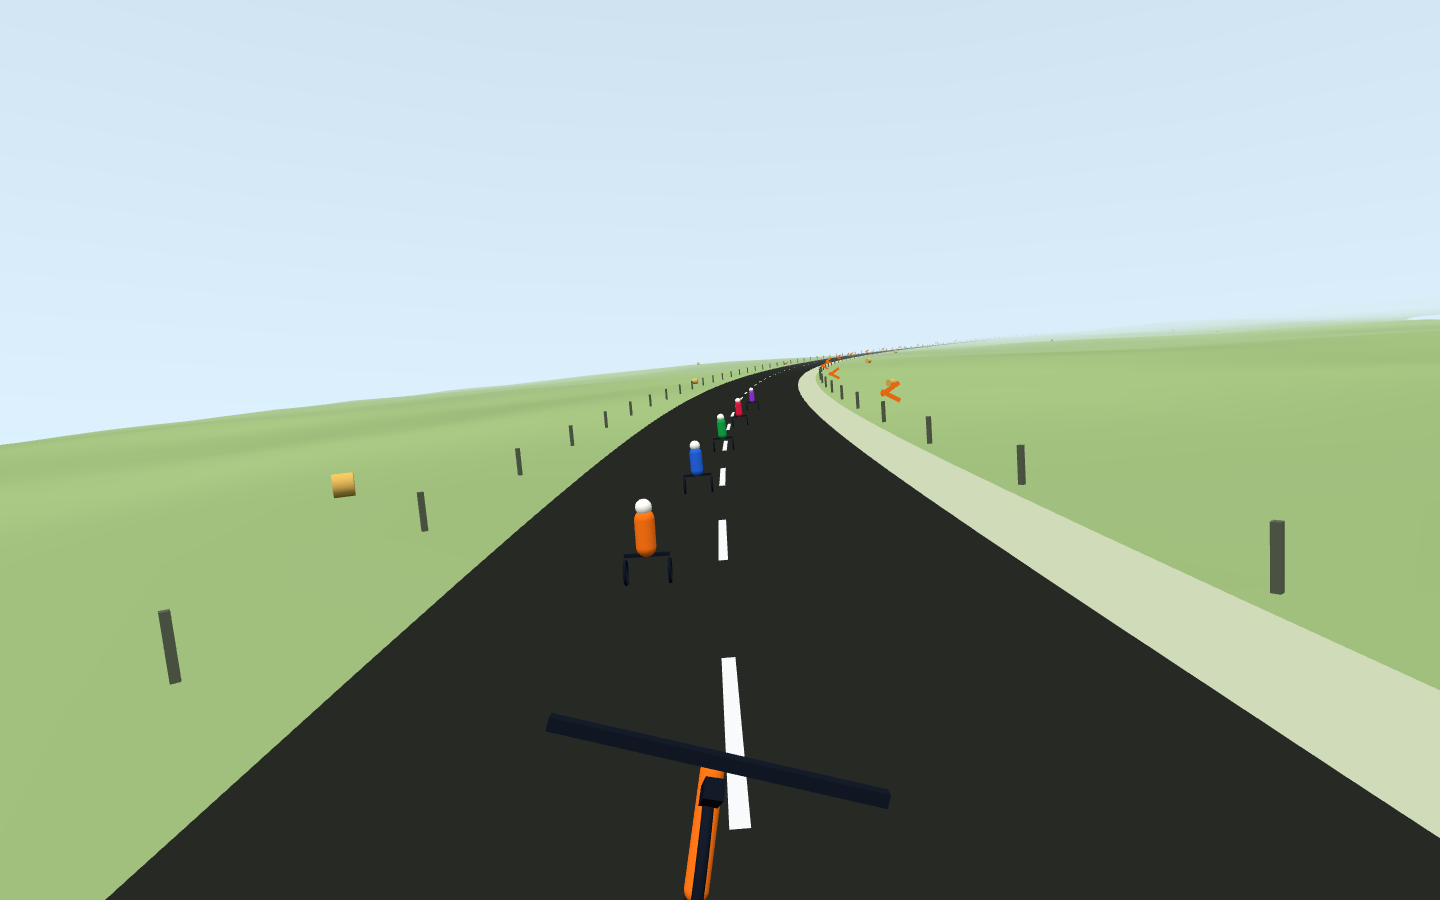
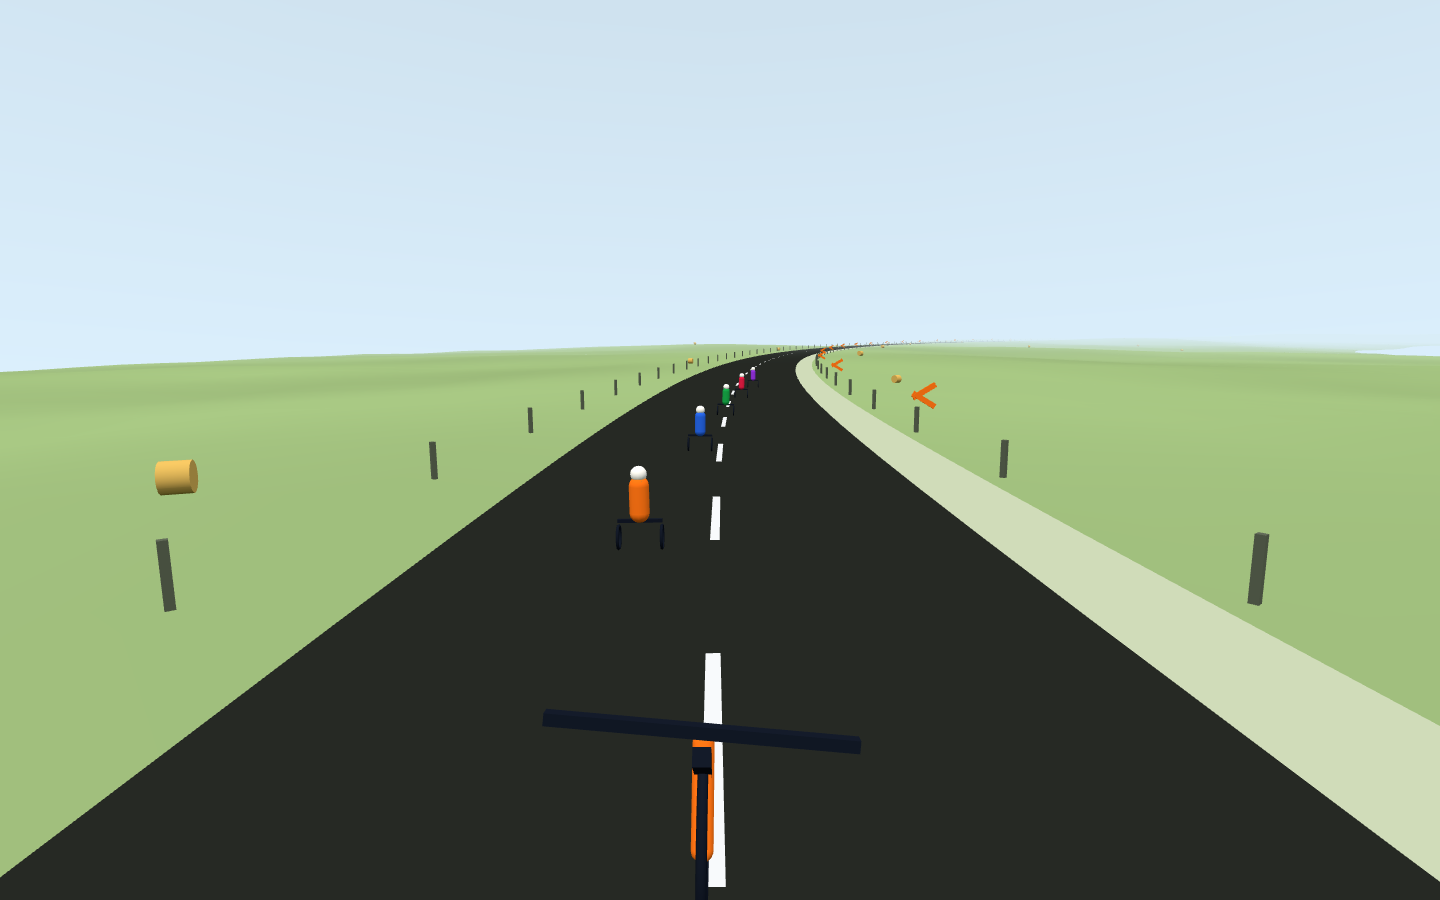
Regenerate flagship screenshot baseline post-M3 camera pass
All nine frames re-captured with the checked-in regenerator
(tests/e2e/capture_flagship_screenshots.py): full 17.2 km ride at 450 W,
zero frame errors, every capture within ~35 m of its target distance.
Views are slightly wider than the M2 set (speed-sensitive FOV).

Also: give the tool's final stop call a 60 s timeout (persisting the
~20-minute session outlives the 5 s default) and drop the stale,
unreferenced flagship_hud.png (pre-M4 HUD).

Claude-Session: https://claude.ai/code/session_01SqyEVUfCp4HzhkQ21YjycS

diff --git a/tests/e2e/capture_flagship_screenshots.py b/tests/e2e/capture_flagship_screenshots.py
@@ -94,7 +94,12 @@ def main() -> int:
                 flush=True,
             )
 
-        post_json(f"{base_url}/api/ride/stop")
+        # Stopping persists a ~20-minute session; give it time, and don't
+        # let a slow save invalidate captures that are already on disk.
+        try:
+            post_json(f"{base_url}/api/ride/stop", timeout_s=60.0)
+        except OSError as exc:
+            print(f"warning: stop/persist did not finish cleanly: {exc}")
         browser.close()
 
     print(json.dumps(shots, indent=2))
